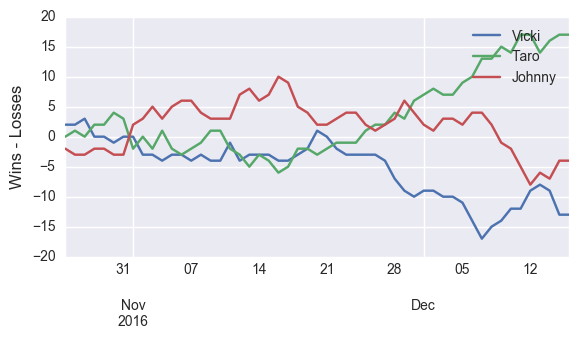
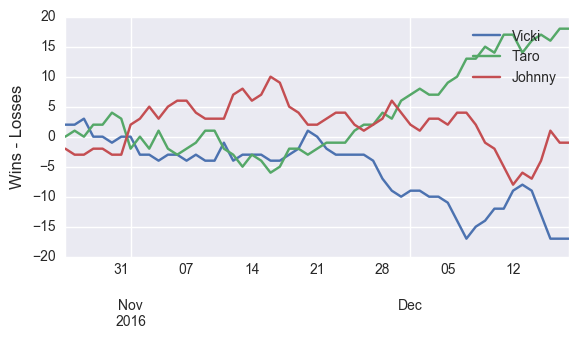
update 12/18

diff --git a/index.html b/index.html
@@ -35,7 +35,7 @@
 <a id="the-bet-is-on" class="anchor" href="#the-bet-is-on" aria-hidden="true"><span aria-hidden="true" class="octicon octicon-link"></span></a>The bet is on.</h1>
 
 <h1>
-<a id="current-winner-of-2016-17-season" class="anchor" href="#current-winner-of-2016-17-season" aria-hidden="true"><span aria-hidden="true" class="octicon octicon-link"></span></a>Current winner of 2016-17 Season (as of 12/16/2016):</h1>
+<a id="current-winner-of-2016-17-season" class="anchor" href="#current-winner-of-2016-17-season" aria-hidden="true"><span aria-hidden="true" class="octicon octicon-link"></span></a>Current winner of 2016-17 Season (as of 12/18/2016):</h1>
 
 <h2>
 <a id="none" class="anchor" href="#none" aria-hidden="true"><span aria-hidden="true" class="octicon octicon-link"></span></a><strong>Taro</strong>
@@ -44,23 +44,23 @@
 <h2>
 <a id="johnny" class="anchor" href="#johnny" aria-hidden="true"><span aria-hidden="true" class="octicon octicon-link"></span></a>Johnny</h2>
 
-<p>Wins: 128<br>
-Losses: 132<br>
-Remaining wins available: 479</p>
+<p>Wins: 136<br>
+Losses: 137<br>
+Remaining wins available: 466</p>
 
 <h2>
 <a id="taro" class="anchor" href="#taro" aria-hidden="true"><span aria-hidden="true" class="octicon octicon-link"></span></a>Taro</h2>
 
-<p>Wins: 136<br>
-Losses: 119<br>
-Remaining wins available: 480</p>
+<p>Wins: 142<br>
+Losses: 124<br>
+Remaining wins available: 470</p>
 
 <h2>
 <a id="vicki" class="anchor" href="#vicki" aria-hidden="true"><span aria-hidden="true" class="octicon octicon-link"></span></a>Vicki</h2>
 
-<p>Wins: 123<br>
-Losses: 136<br>
-Remaining wins available: 486</p>
+<p>Wins: 126<br>
+Losses: 143<br>
+Remaining wins available: 477</p>
 
 <img src='pythoncode/win_percent.png' alt='Winning Percentage Over Time'>
 <h1>
